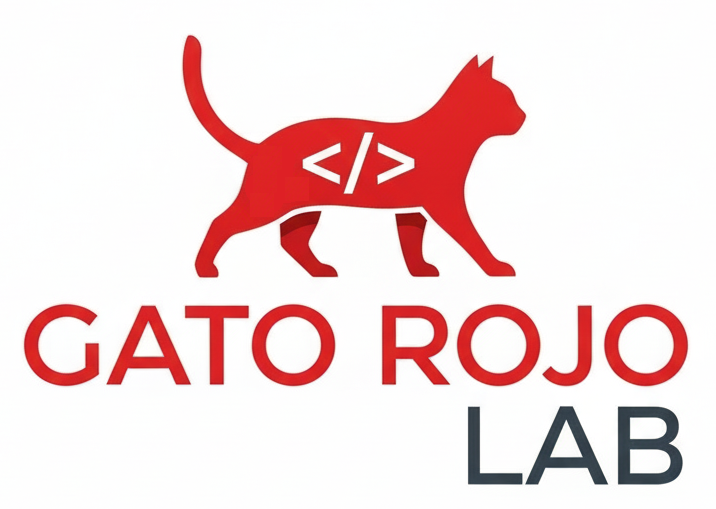
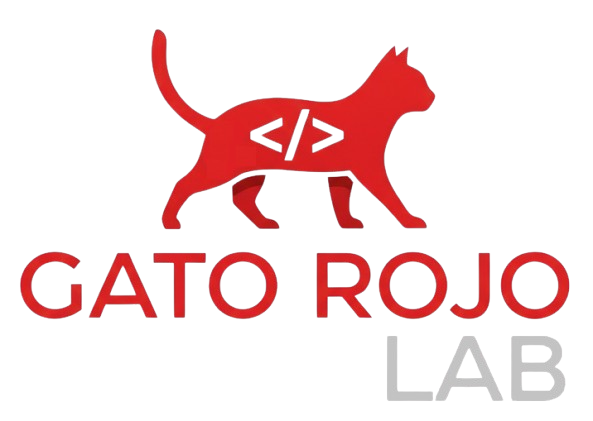
Actualiza el diseño del footer y header, mejora la página de inicio con contenido y estilos, y corrige rutas de fuentes en CSS.

diff --git a/src/pages/_layout.tsx b/src/pages/_layout.tsx
@@ -2,114 +2,23 @@
 import '../styles.css';
 // tipos
 import type { ReactNode } from 'react';
-import React from 'react';
 // componentes
-import { Header } from '../components/header';
 import { Footer } from '../components/footer';
 // analytics
 import { Analytics } from '@vercel/analytics/react';
-// hooks 
-import { useEffect } from 'react';
 
-// componente para manejar el head inicial (solo para configuración base)
-function BaseHead() {
-  // Este componente se ejecuta solo en el cliente
-  if (typeof window === 'undefined') return null;
+// layout específico para la página de inicio (sin header)
+type HomeLayoutProps = { children: ReactNode };
 
-  useEffect(() => {
-    // Configuración inicial del head (solo si no está ya configurado)
-    if (!document.title) {
-      document.title = 'Gato Rojo Lab · Desarrollo web minimalista y práctico';
-    }
-
-    // Modificar el lang del html
-    document.documentElement.lang = 'es';
-    document.documentElement.setAttribute('translate', 'yes');
-
-    // Función helper para agregar meta tags si no existen
-    const addMetaIfNotExists = (name: string, content: string, property?: string) => {
-      const selector = property ? `meta[property="${property}"]` : `meta[name="${name}"]`;
-      const existing = document.querySelector(selector);
-
-      if (!existing) {
-        const meta = document.createElement('meta');
-        if (property) meta.setAttribute('property', property);
-        else meta.setAttribute('name', name);
-        meta.content = content;
-        document.head.appendChild(meta);
-      }
-    };
-
-    // Meta tags básicos
-    addMetaIfNotExists('viewport', 'width=device-width, initial-scale=1.0');
-    addMetaIfNotExists('view-transition', 'same-origin');
-    addMetaIfNotExists('robots', 'index, follow, max-snippet:-1, max-image-preview:large, max-video-preview:-1');
-    addMetaIfNotExists('keywords', 'desarrollo web, minimalista, frontend, JAMStack, costa rica, gato, rojo, desarrollo, web, accesible, práctico, landing page, tienda en línea, blog, proyectos web, veganismo, minimalismo, diseño web, desarrollo web accesible, desarrollo web rápido, desarrollo web moderno, desarrollo web react, desarrollo web astro');
-    addMetaIfNotExists('language', 'es');
-    addMetaIfNotExists('description', 'Gato Rojo Lab: Desarrollo web minimalista y práctico.');
-
-    // Open Graph
-    addMetaIfNotExists('', 'Gato Rojo Lab · Desarrollo web minimalista y práctico', 'og:title');
-    addMetaIfNotExists('', 'Gato Rojo Lab: Desarrollo web minimalista y práctico.', 'og:description');
-    addMetaIfNotExists('', '/iconos/gatoRojoLab-mini.jpg', 'og:image');
-    addMetaIfNotExists('', 'https://gatorojolab.com', 'og:url');
-    addMetaIfNotExists('', 'website', 'og:type');
-    addMetaIfNotExists('', 'es_ES', 'og:locale');
-    addMetaIfNotExists('', 'Gato Rojo Lab', 'og:site_name');
-
-    // Favicon
-    const existingFavicon = document.querySelector('link[rel="icon"]');
-    if (!existingFavicon) {
-      const favicon = document.createElement('link');
-      favicon.rel = 'icon';
-      favicon.type = 'image/png';
-      favicon.href = '/iconos/gatoRojoLab-mini.png';
-      document.head.appendChild(favicon);
-    }
-
-    // Canonical y hreflang
-    const existingCanonical = document.querySelector('link[rel="canonical"]');
-    if (!existingCanonical) {
-      const canonical = document.createElement('link');
-      canonical.rel = 'canonical';
-      canonical.href = 'https://gatorojolab.com';
-      document.head.appendChild(canonical);
-    }
-
-    const existingHreflang = document.querySelector('link[hreflang="es"]');
-    if (!existingHreflang) {
-      const hreflang = document.createElement('link');
-      hreflang.rel = 'alternate';
-      hreflang.hreflang = 'es';
-      hreflang.href = 'https://gatorojolab.com';
-      document.head.appendChild(hreflang);
-
-      const hreflangDefault = document.createElement('link');
-      hreflangDefault.rel = 'alternate';
-      hreflangDefault.hreflang = 'x-default';
-      hreflangDefault.href = 'https://gatorojolab.com';
-      document.head.appendChild(hreflangDefault);
-    }
-  }, []);
-
-  return null;
-}
-
-// props del layout raíz
-type RootLayoutProps = { children: ReactNode };
-
-export default async function RootLayout({ children }: RootLayoutProps) {
+export default async function HomeLayout({ children }: HomeLayoutProps) {
   return (
     <>
-      <BaseHead />
       <Analytics />
-      <Header />
-      <main className="flex-1 text-center">{children}</main>
+      <main className=" bg-gris-heavy text-indigo-50">{children}</main>
       <Footer />
     </>
   );
 }
-
 
 export const getConfig = async () => {
   return {

diff --git a/src/components/footer.tsx b/src/components/footer.tsx
@@ -1,25 +1,26 @@
 export const Footer = () => {
   return (
-    <footer className="w-full flex items-center justify-center gap-4 p-6 border-t mt-8 border-blue-400">
-        <form action="" className="flex gap-2 items-center">
-          <p>Agregar código:</p>
-          <label htmlFor="code" className="mt-2">
-            <input
-              type="text"
-              name="code"
-              placeholder="Ingresa tu código aquí"
-              className="border border-gray-300 rounded-md p-2 mr-2"
-            />
-          </label>
+    <footer className="w-full flex items-center justify-center gap-4 px-4 py-0 border-t mt-4 border-blue-400">
+      <form action="" className="flex gap-2 items-center">
+        <p>Agregar código:</p>
+        <label htmlFor="code" className="mt-2">
+          <input
+            id="code"
+            type="text"
+            name="code"
+            placeholder="Ingresa tu código aquí"
+            className="border border-gray-300 rounded-md mr-2"
+          />
+        </label>
 
-          <button
-            type="submit"
-            className="bg-blue-500 text-white rounded-md px-4 py-2 hover:bg-blue-600"
-          >
-            OK
-          </button>
+        <button
+          type="submit"
+          className="bg-blue-500 text-white rounded-md px-2 py-1 hover:bg-blue-600"
+        >
+          OK
+        </button>
 
-        </form>
+      </form>
     </footer>
   );
 };

diff --git a/src/pages/index.tsx b/src/pages/index.tsx
@@ -1,10 +1,28 @@
+// util para config para SSR
 import { getConfig as staticRender } from '../utils/staticRender';
+// imagenes
+import gatoRojo from '/iconos/gatoRojoLab-mini.png';
 
 export default async function HomePage() {
   return (
-    <div>
-      <h1 className="text-3xl font-bold">Gato Rojo Lab</h1>
-    </div>
+    <section className='flex flex-col items-center justify-center min-h-screen bg-blanco'>
+      <h1 className="text-6xl font-bold font-lexend-mega pt-6">
+        G<span className='text-gris-claro'>A</span>T<span className='text-gris-claro'>O</span> R<span className='text-gris-claro'>O</span>J<span className='text-gris-claro'>O</span> L<span className='text-gris-claro'>A</span>B
+      </h1>
+      <img
+        src={gatoRojo}
+        alt="Gato Rojo Lab"
+        width={300}
+        height={300}
+        className="mt-6"
+      />
+      <p className='text-2xl pb-4 pt-2'>
+        Soluciones centradas en la Persona Usuaria.
+      </p>
+      <p>
+         Accesibilidad, minimalismo y creatividad.
+      </p>
+    </section>
   );
 }
 

diff --git a/src/styles.css b/src/styles.css
@@ -3,8 +3,7 @@
 * {
   box-sizing: border-box;
   margin: 0;
-  padding: 0;
-  transition: all 0.5s ease-out allow-discrete;
+  /* transition: all 0.5s ease-out allow-discrete; */
 }
 
 html {
@@ -27,7 +26,7 @@ body {
 @font-face {
   font-family: "Roboto_Mono";
   src: local("Roboto_Mono"),
-    url(/assets/fonts/Roboto_Mono/Roboto_Mono.woff2) format("woff2");
+    url(/tipografias/Roboto_Mono/Roboto_Mono.woff2) format("woff2");
 }
 
 @font-face {
@@ -61,6 +60,10 @@ body {
   --font-lexend-mega: 'Lexend_Mega', sans-serif;
   --font-press-start: 'PressStart2P', cursive;
 
-  --color-gatorojo: rgb(217, 7, 7);
+  --color-gris-claro: rgb(201, 201, 201);
+  --color-gris-medio: rgb(94, 94, 94);
+  --color-gris-oscuro: rgb(77, 77, 77);
+  --color-gris-heavy: rgb(12, 12, 12);
+  --color-gatorojo: rgb(255, 0, 0);
   --color-doradoSK: rgb(255, 210, 48);
 }

diff --git a/src/components/header.tsx b/src/components/header.tsx
@@ -4,12 +4,12 @@ export const Header = () => {
   return (
     <header className="w-full">
       <nav>
-        <ul className='flex justify-around items-center'>
-          <li><Link to="/">Home</Link></li>
-          <li><Link to="/servicios">Servicios</Link></li>
-          <li><Link to="/proyectos">Proyectos</Link></li>
-          <li><Link to="/contacto">Contacto</Link></li>
-          <li><Link to="/about">About</Link></li>
+        <ul className='flex justify-around items-center font-lexend-mega bg-gris-medio text-gray-50'>
+          <li><Link to="/">INICIO</Link></li>
+          <li><Link to="/servicios">SERVICIOS</Link></li>
+          <li><Link to="/proyectos">PROYECTOS</Link></li>
+          <li><Link to="/contacto">CONTACTO</Link></li>
+          <li><Link to="/about">ACERCA DE</Link></li>
         </ul>
       </nav>
     </header>
